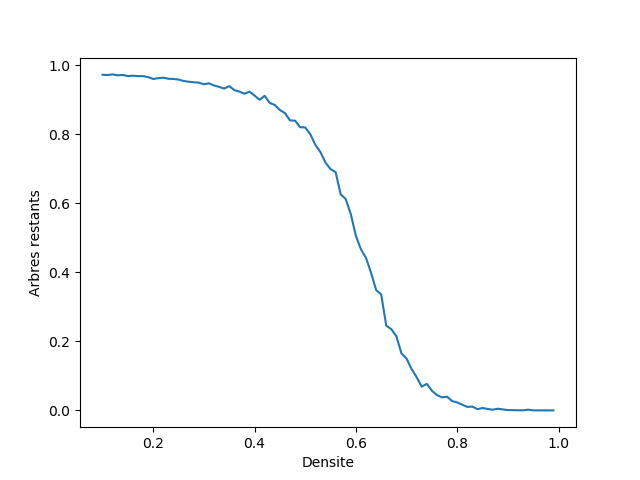
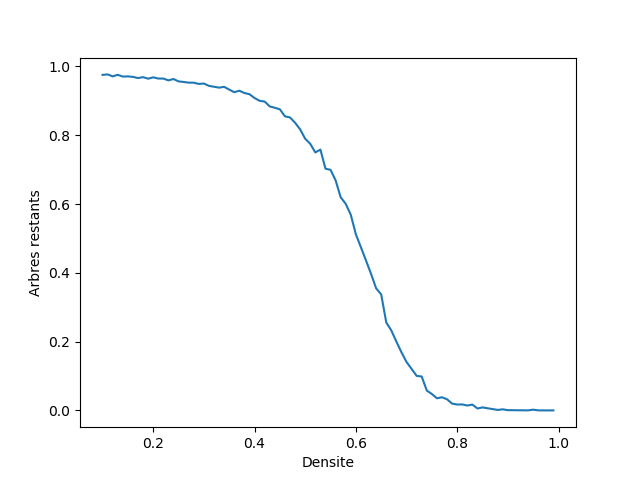
last commit

diff --git a/simulation_stats.py b/simulation_stats.py
@@ -2,20 +2,21 @@ from functions import *
 
 
 
-for fire_takes_corner in [False,True]:
-    r = 0.1
-    x_plot = []
-    y_plot = []
-    while(r<=1):
-        moy = moy_simulation(r,False)
-        print("densite = " + str(r) + " :  pourcentage des arbres restants ="+ str(moy))
-        y_plot.append(moy)
-        x_plot.append(r)
-        r+=0.01
-
-    plt.plot(x_plot,y_plot)
-    plt.xlabel('Densite')
-    plt.ylabel('Arbres restants')
-    filename = ("fire_takes_corner" if fire_takes_corner else "fire_can't_takes_corner") + ".png"
-    plt.savefig(filename)
+fire_takes_corner = True
+r = 0.1
+x_plot = []
+y_plot = []
+while(r<=1):
+	moy = moy_simulation(r,fire_takes_corner)
+	print("densite = " + str(r) + " :  pourcentage des arbres restants ="+ str(moy))
+	y_plot.append(moy)
+	x_plot.append(r)
+	r+=0.01
+filename = ("fire_takes_corner" if fire_takes_corner else "fire_can't_takes_corner") + ".png"
+plt.plot(x_plot,y_plot)
+plt.xlabel('Densite')
+plt.ylabel('Arbres restants')
+plt.title = filename
+plt.filename = filename
+plt.savefig(filename)
     #plt.show()
